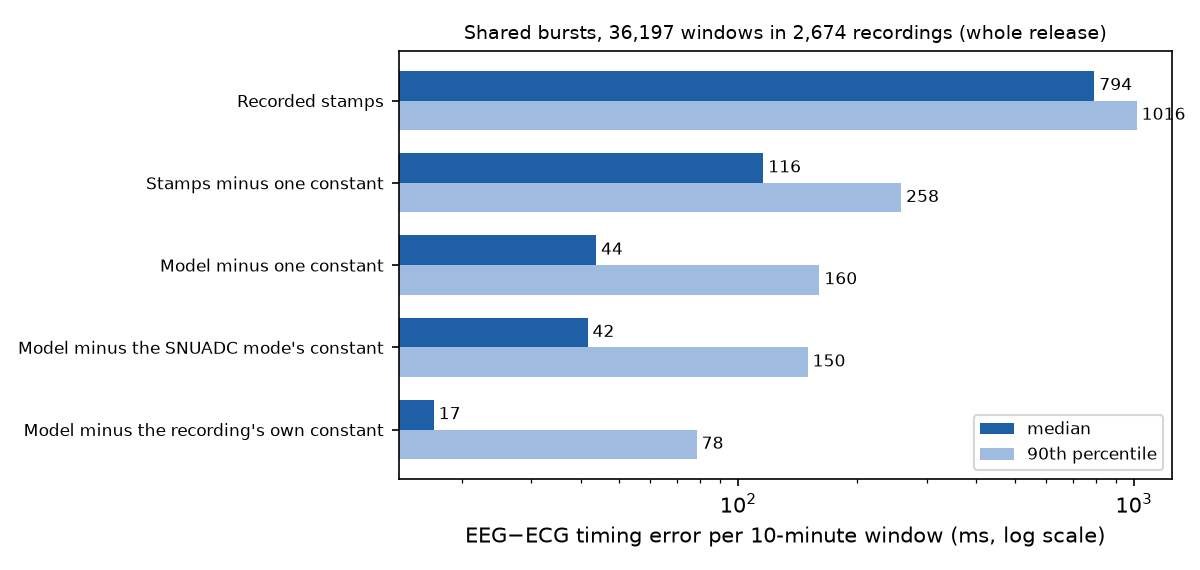
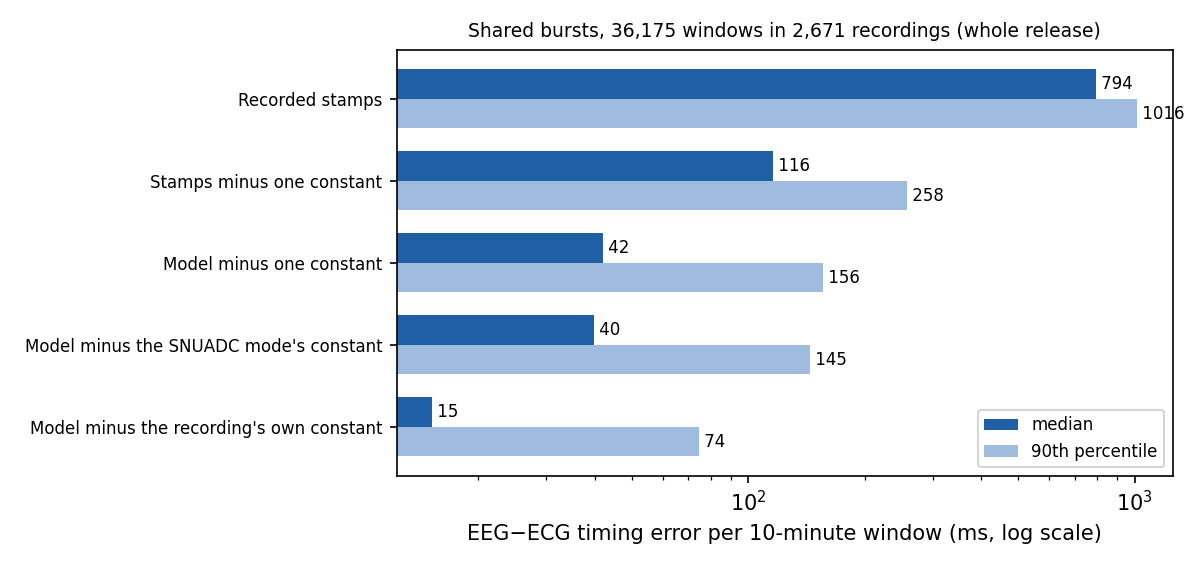
Stamp model with setup-rate fallbacks (model4): BIS sync 59 ms, own bursts 27 ms
A track without a whole tooth now takes its recording station's rate before
its port's, and a BIS without one no longer keeps a line fit (burst
validation model4, 9 Nov; vitaldb-bench tools/fallback_rate.py). Setup rates
predict a recording's own rate to 0.75 ppm (SNUADC) and 1.45 ppm (BIS).
The drift left over a recording falls from a median 40 to 28 ms/h. Port
values rebuilt from whole teeth alone made the port-fallback recordings
worse, so the earlier port values are kept.
- bis-eeg bis-sync: 63.4 -> 59.4 ms (recording constant 58 -> 55 ms, within
  25.6 -> 22.7 ms, correlation 8 -> 7 min, 95% -227 to +165 ms).
- bis-eeg bis-own: 30.1 -> 26.7 ms.
- stamp-model-error: median 40 ms, p90 145 ms, 59 ms robust SD, own bursts
  15 and 27 ms, 2,716 recordings.
- eeg-ecg-offset: -805 ms step, -665 ms frequent, -769 ms with no correction.
- snuadc-raw-step-bias: 0.24 s (0.03-0.49).
- snuadc-stamp-sawtooth: method (setup-first rule), results (model4
  adopted, model3 kept as previous), reproduction commands, figures
  regenerated.
- Matching numbers in the observation, setups page, shared-bursts,
  loop-closure and bis-clock.
form_snapshot: only the BIS forms, the raw step-mode forms and the BIS pairs
move.

diff --git a/datasets/vitaldb/pages/setups.md b/datasets/vitaldb/pages/setups.md
@@ -43,7 +43,7 @@ date or a patient.
 | SNUADC correction mode (step or frequent) | 0–68% frequent by port | mostly one mode | [[observation:snuadc-mode-setups]] |
 | SNUADC step-mode drift | medians −44 to −81 ppm by setup | within 3 ppm in 97% of cases | [[parameter:snuadc-step-rate]], [[observation:device-drift-by-setup]] |
 | BIS drift | medians 18–55 ppm by setup | within 3 ppm in 83% of cases | [[parameter:bis-rate]], [[observation:device-drift-by-setup]] |
-| EEG minus ECG constant offset | −804 ms step, −660 ms frequent mode (whole release) | tight within a port or unit | [[observation:eeg-ecg-offset-by-mode]], [[parameter:eeg-ecg-offset]] |
+| EEG minus ECG constant offset | −805 ms step, −665 ms frequent mode (whole release) | tight within a port or unit | [[observation:eeg-ecg-offset-by-mode]], [[parameter:eeg-ecg-offset]] |
 | Solar8000 heart-rate delay group (1.9 or 4.2 s) | set by the PC | 94% of cases follow their PC's majority | [[observation:hr-two-delay-groups]], [[study:hr-delay-groups]] |
 
 ## The setup register
